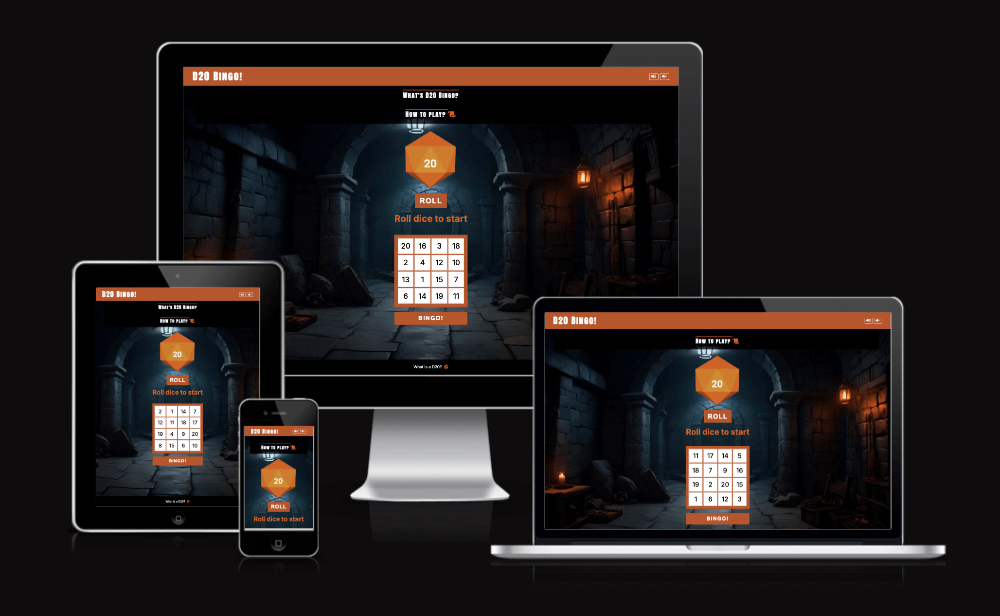
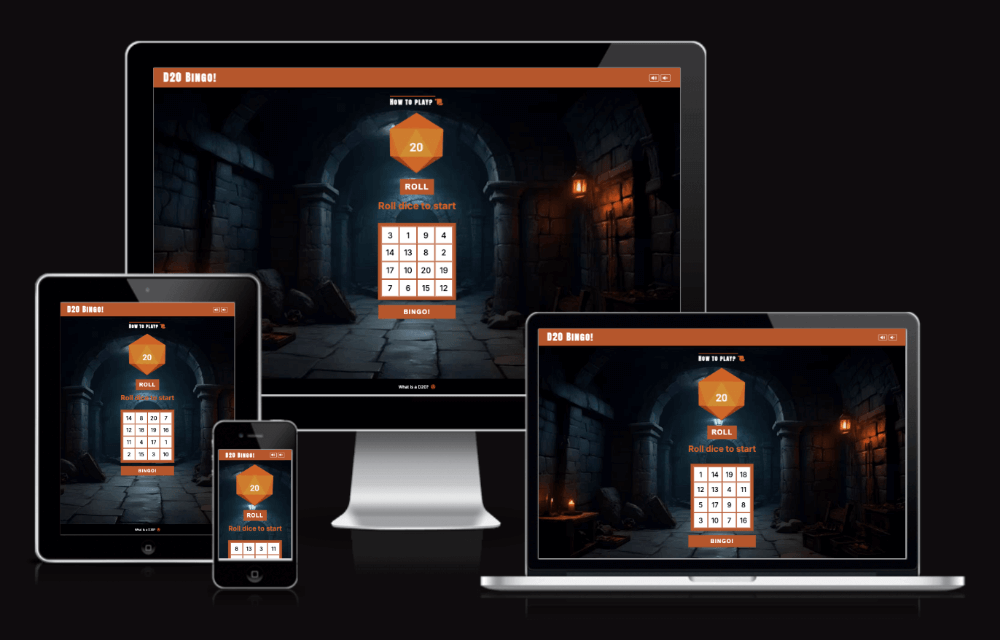
Add site screenshots to ReadMe

Changed region(s): [[0.031, 0.0617, 0.961, 0.9253]]

diff --git a/README.md b/README.md
@@ -18,50 +18,50 @@ Created for a unique and enjoyable gaming experience for all ages, by blending t
 
 ### Objectives
 
-- Create a fast-paced, engaging game suitable for solo play.
-- Merge elements of unpredictable dice rolling and bingo to create a unique gameplay experience.
-- Design the game to be accessible and enjoyable for players of all ages.
+- Create a fast-paced, engaging game suitable for solo play
+- Merge elements of unpredictable dice rolling and bingo to create a unique gameplay experience
+- Design the game to be accessible and enjoyable for players of all ages
 
 ### Core Mechanics
 
 __Game Setup & Components:__
-- Sound: Set to auto.mute on page load, buttons located in header.
-- Rules: Give more information on gameplay within a modal, to not take up space within gameplay area.
-- D20 Die: A standard 20-sided die used for rolling.
-- Roll CTA: D20 and timer is activated by on click of button.
-- Countdown: Timer counting down from 00:45, player aims to achieve bingo as fast as possible.
-- Previous Roll: Displays previous die roll number.
-- Bingo Grid: Randomised 4x4 grid card containing numbers 1 to 20, randomly distributed.
-- Marker: Digital dabber for player to mark their card on click.
-- Bingo button located below game card to call validation.
-- Message panel which give feedback to player during gameplay.
+- Sound: Set to auto.mute on page load, buttons located in header
+- Rules: Give more information on gameplay within a modal, to not take up space within gameplay area
+- D20 Die: A standard 20-sided die used for rolling
+- Roll CTA: D20 and timer is activated by on click of button
+- Countdown: Timer counting down from 00:45, player aims to achieve bingo as fast as possible
+- Previous Roll: Displays previous die roll number
+- Bingo Grid: Randomised 4x4 grid card containing numbers 1 to 20, randomly distributed
+- Marker: Digital dabber for player to mark their card on click
+- Bingo button located below game card to call validation
+- Message panel which give feedback to player during gameplay
 
-__Game Play__
-- The player rolls a D20 die on first roll, thereafter it rolls automatically for duration of game.
-- The number rolled is marked on the bingo card if it is present.
-- The goal is to complete a specific pattern on the card as quickly as possible.
+__Gameplay__
+- The player rolls a D20 die on first roll, thereafter it rolls automatically for duration of game
+- The number rolled is marked on the bingo card if it is present
+- The goal is to complete a specific pattern on the card as quickly as possible
 - Special rolls are included to keep the game interesting:
-  - 20 = Saving Throw: Adds 10 seconds to timer.
-  - 1 = Death Throw: Subtracts 10 seconds from timer.
+  - 20 = Saving Throw: Adds 10 seconds to timer
+  - 1 = Death Throw: Subtracts 10 seconds from timer
 
 __Winning the Game:__
-- The player wins by completing a row, column, diagonal, on the bingo grid.
-- If the timer reaches 00:00 the game ends and player loses.
+- The player wins by completing a row, column, diagonal, on the bingo grid
+- If the timer reaches 00:00 the game ends and player loses
 
 __Design Considerations:__
-- Replayability: Ensure high replayability by varying the number distribution on the bingo grid and introducing randomised cards every game.
-- Accessibility: Include clear instructions and simple rules to make the game easy to understand and play.
-- Solo Play: Optimize the game mechanics for an engaging solo play experience.
+- Replayability: Ensure high replayability by varying the number distribution on the bingo grid and introducing randomised cards every game
+- Accessibility: Include clear instructions and simple rules to make the game easy to understand and play
+- Solo Play: Optimize the game mechanics for an engaging solo play experience
 
 ### Development Plan
 
 __Prototype Development:__
-- Created initial prototype of bingo grid and test basic gameplay mechanics.
-- Conducted solo playtesting sessions to gather feedback and refine rules.
+- Created initial prototype of bingo grid and test basic gameplay mechanics
+- Conducted solo playtesting sessions to gather feedback and refine rules
 
 __Design & Layout:__
-- Appealing visual designs for game theme and components.
-- Ensure site theme is consistently reflected throughout game play.
+- Appealing visual designs for game theme and components
+- Ensure site theme is consistently reflected throughout game play
 
 
 ## Features 
@@ -70,24 +70,24 @@ __Design & Layout:__
 
 __Header__
   - Header sets the main rust colour theme, and styled to stay within screen view at all times
-  - The site logo was created using font [Archivo Black](https://fonts.google.com/specimen/Archivo+Black) 
-  - Sound buttons top right are always visible 
+  - The site logo was created using font [Archivo Black](https://fonts.google.com/specimen/Archivo+Black), icons taken from [Font Awesome](https://fontawesome.com/)
+  - Sound buttons top right are always visible, with background music set to mute on site load
 
-![Header Desktop]() ![Header Mobile]()
+![Header Mobile](assets/images/header-mobile.webp)  ![Header Desktop](assets/images/header-desktop.webp)
 
 
 __About Game & Rules__
   -  Modal added to reduce space within the game play area on screen.
   -  Hover added on desktop to prompt button functionality.
 
-![Rules Modal Desktop]() ![Rules Modal Mobile]()
+![Rules Modal Mobile](assets/images/modal-mobile.webp)   ![Rules Modal Desktop](assets/images/modal-desktop.webp)
 
 
 __D20 Dice Roll__
   - Dice image was inspired by the classic D20, which acts as the main feature alongside the bingo card.
   - The dice is set to roll automatically on first activation of roll button, and animates a roll action every 3 seconds.
 
-![D20 Dice with Roll Button]()
+![D20 Dice with Roll Button](assets/images/D20-button.webp)  ![D20 Dice Rolling...](assets/images/D20-rolling.webp)
 
 __Countdown Timer__
   - Countdown panel prompts for dice roll, which activates timer on game start.
@@ -95,14 +95,14 @@ __Countdown Timer__
   - If the timer runs out then the display will indicate 00:00
   - The timer adjusts when a special roll is activated, a 20 or 1.
 
-![Countdown Before Roll]() ![Countdown During Game]() ![Countdown Time Up]()
+![Countdown Before Roll](assets/images/timer-before.webp)  ![Countdown Start Game](assets/images/timer-start.webp)  ![Countdown Time Up](assets/images/timer-end.webp)
 
  __Previous Roll Panel__
   - This is introduced to assist the player with recall of the previous dice roll.
   - With game play at a fast pace and keeping dice rolling every 3 seconds, player needs to keep track or they will miss a number.
   - By only previewing the last dice roll and not all numbers rolled, allows for players to think quickly.
 
-![Previous Roll Panel]() 
+![Previous Roll Panel](assets/images/timer-during.webp)  ![Previous Roll Saving Throw](assets/images/previous-20.webp)  ![Previous Roll Death Throw](assets/images/previous-1.webp) 
 
 __Bingo Grid & Button__
   - A 4x4 card with a randomised number array added into a grid format.
@@ -114,7 +114,7 @@ __Bingo Grid & Button__
   - Only marked numbers are validate, if a number was rolled but missed, then no bingo given.
   - If no bingo is validated, the game continues and dice keeps rolling until time is up.
 
-![Bingo Grid Horizontal]() ![Bingo Grid Vertical]() ![Bingo Grid Diagonal]()
+![Bingo Grid Horizontal](assets/images/horizontal.webp)  ![Bingo Grid Vertical](assets/images/vertical.webp)  ![Bingo Grid Diagonal](assets/images/diagonal.webp)
 
 __Message Panel__
   - These are prompts displayed during game play to give feedback:
@@ -125,18 +125,18 @@ __Message Panel__
     - Death Throw (-10 seconds from countdown)
   - If the messages are prompted during game play, they disappear with next dice roll to keep game flowing.
 
-![Bingo Message]() ![No win Message]() ![Time Up Message]() ![Saving Throw Message]() ![Death Throw Message]()
+![Bingo Message](assets/images/msg-bingo.webp) ![No win Message](assets/images/msg-nobingo.webp) ![Time Up Message](assets/images/msg-timeup.webp) ![Saving Throw Message](assets/images/msg-saving.webp) ![Death Throw Message](assets/images/msg-death.webp)
 
  __The Footer__ 
   - The footer section includes a link to a site called The Roarbots, which explains a brief history of the D20. The link will open to a new tab to allow easy navigation for the user. 
 
-![Footer]()
+![Footer](assets/images/footer.webp)
 
 __404 Error Page__
   - A custom error page loads if incorrect url loads.
   - Button on page redirects back to home page.
 
-![404 Error Desktop]() ![404 Error Mobile]()
+ ![404 Error Mobile](assets/images/404-error-mobile.webp)  ![404 Error Desktop](assets/images/404-error-desktop.webp)
 
 
 ### UX/UI Wireframing
@@ -291,7 +291,7 @@ __404 Error Page__
 - Game content was inspired by catch phrases used when playing the classic Dungeons and Dragons [Adobe Stock](https://stock.adobe.com/)  
 - Background image is a licensed download from [Adobe Stock](https://stock.adobe.com/)
 
-![Background licence]()
+![Background licence](assets/images/background-license.webp)
 
 ### Media Source Links
 
